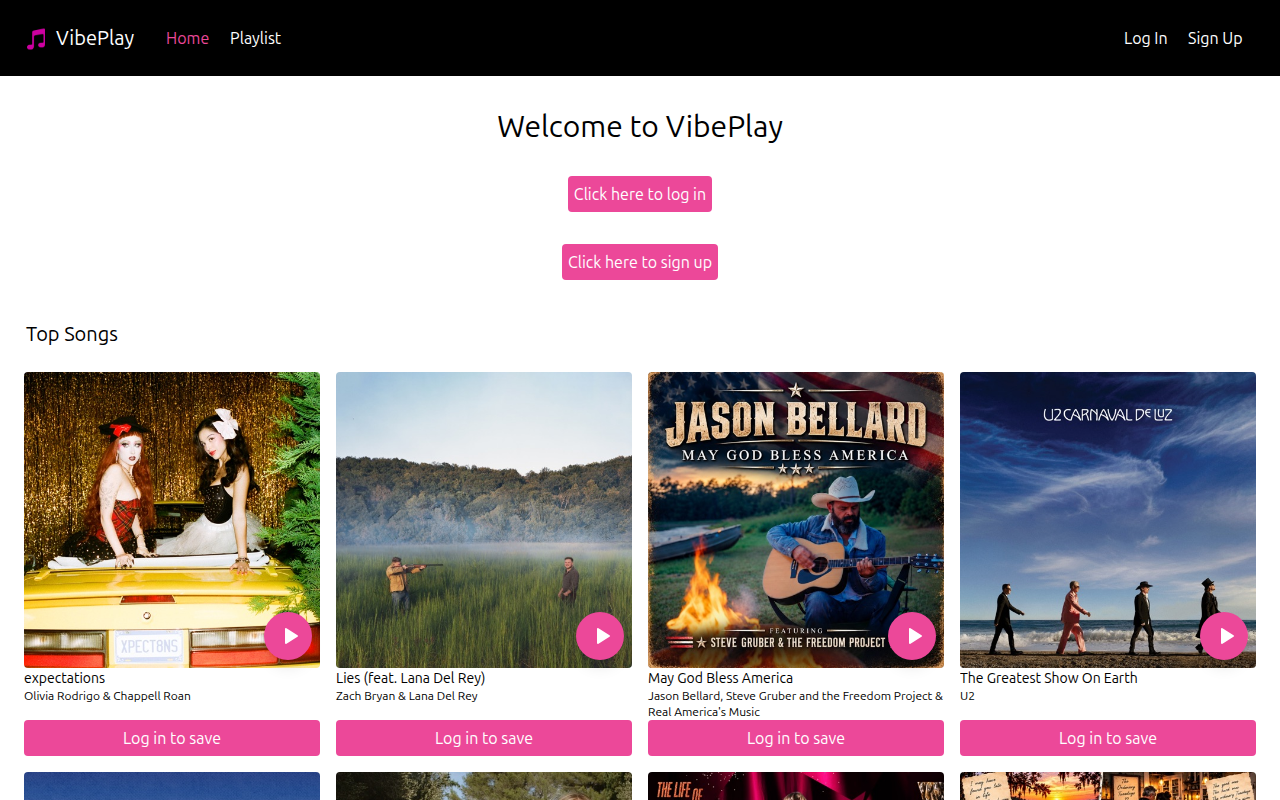
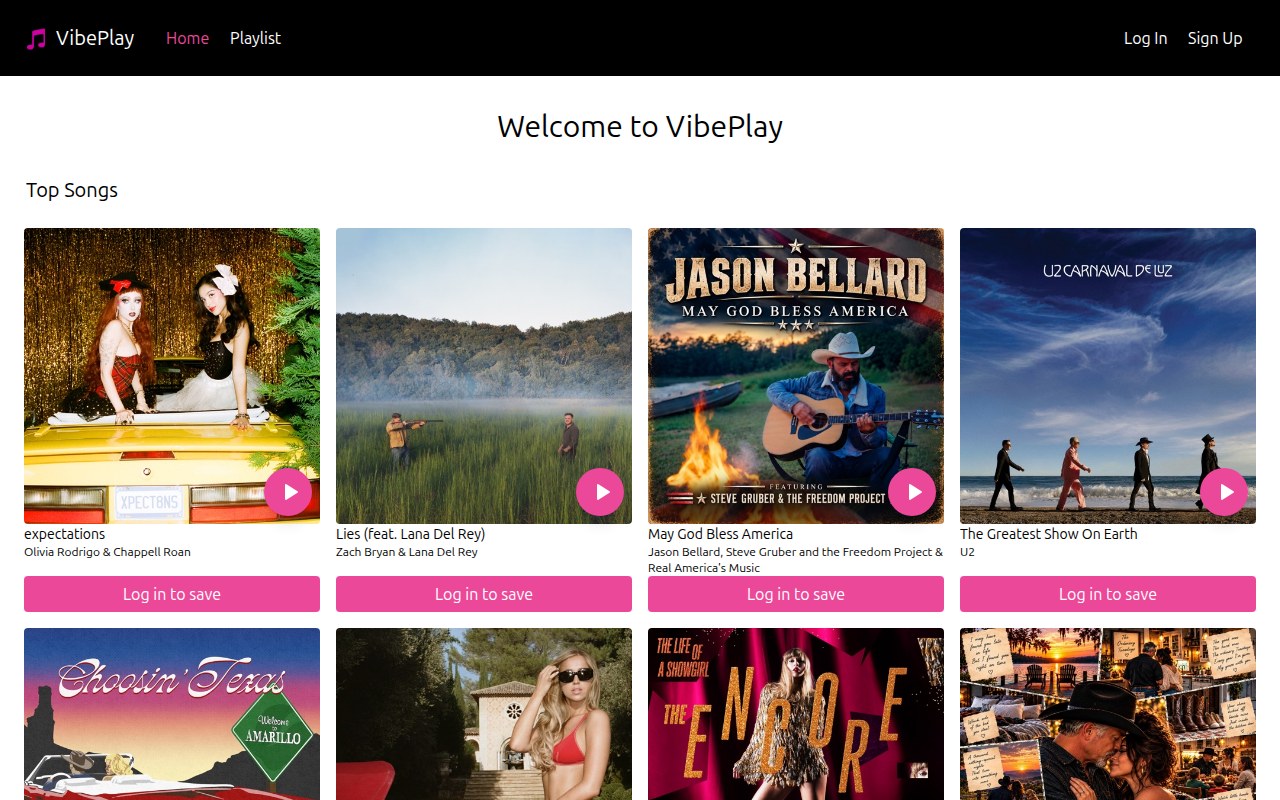
Remove redundant log in and sign up buttons from home page

diff --git a/src/pages/home.js b/src/pages/home.js
@@ -1,4 +1,3 @@
-import { Link } from 'react-router-dom';
 import { AppContext } from '../AppContext';
 import { useContext } from 'react';
 import Tiles from '../components/tiles';
@@ -9,17 +8,7 @@ const Home = () => {
 	return user.username === '' ? (
 		<div className="mt-8 px-4 flex flex-col items-center">
 			<div className="text-3xl mb-4">Welcome to VibePlay</div>
-			<Link
-				to="/login"
-				className="bg-pink-500 hover:bg-black p-1.5 rounded text-white mt-4">
-				Click here to log in
-			</Link>
-			<Link
-				to="/signup"
-				className="bg-pink-500 hover:bg-black p-1.5 rounded text-white mt-8">
-				Click here to sign up
-			</Link>
-			<div className="text-xl mt-10 mb-4 self-start ml-2.5">Top Songs</div>
+			<div className="text-xl mt-4 mb-4 self-start ml-2.5">Top Songs</div>
 			<Tiles />
 		</div>
 	) : (
